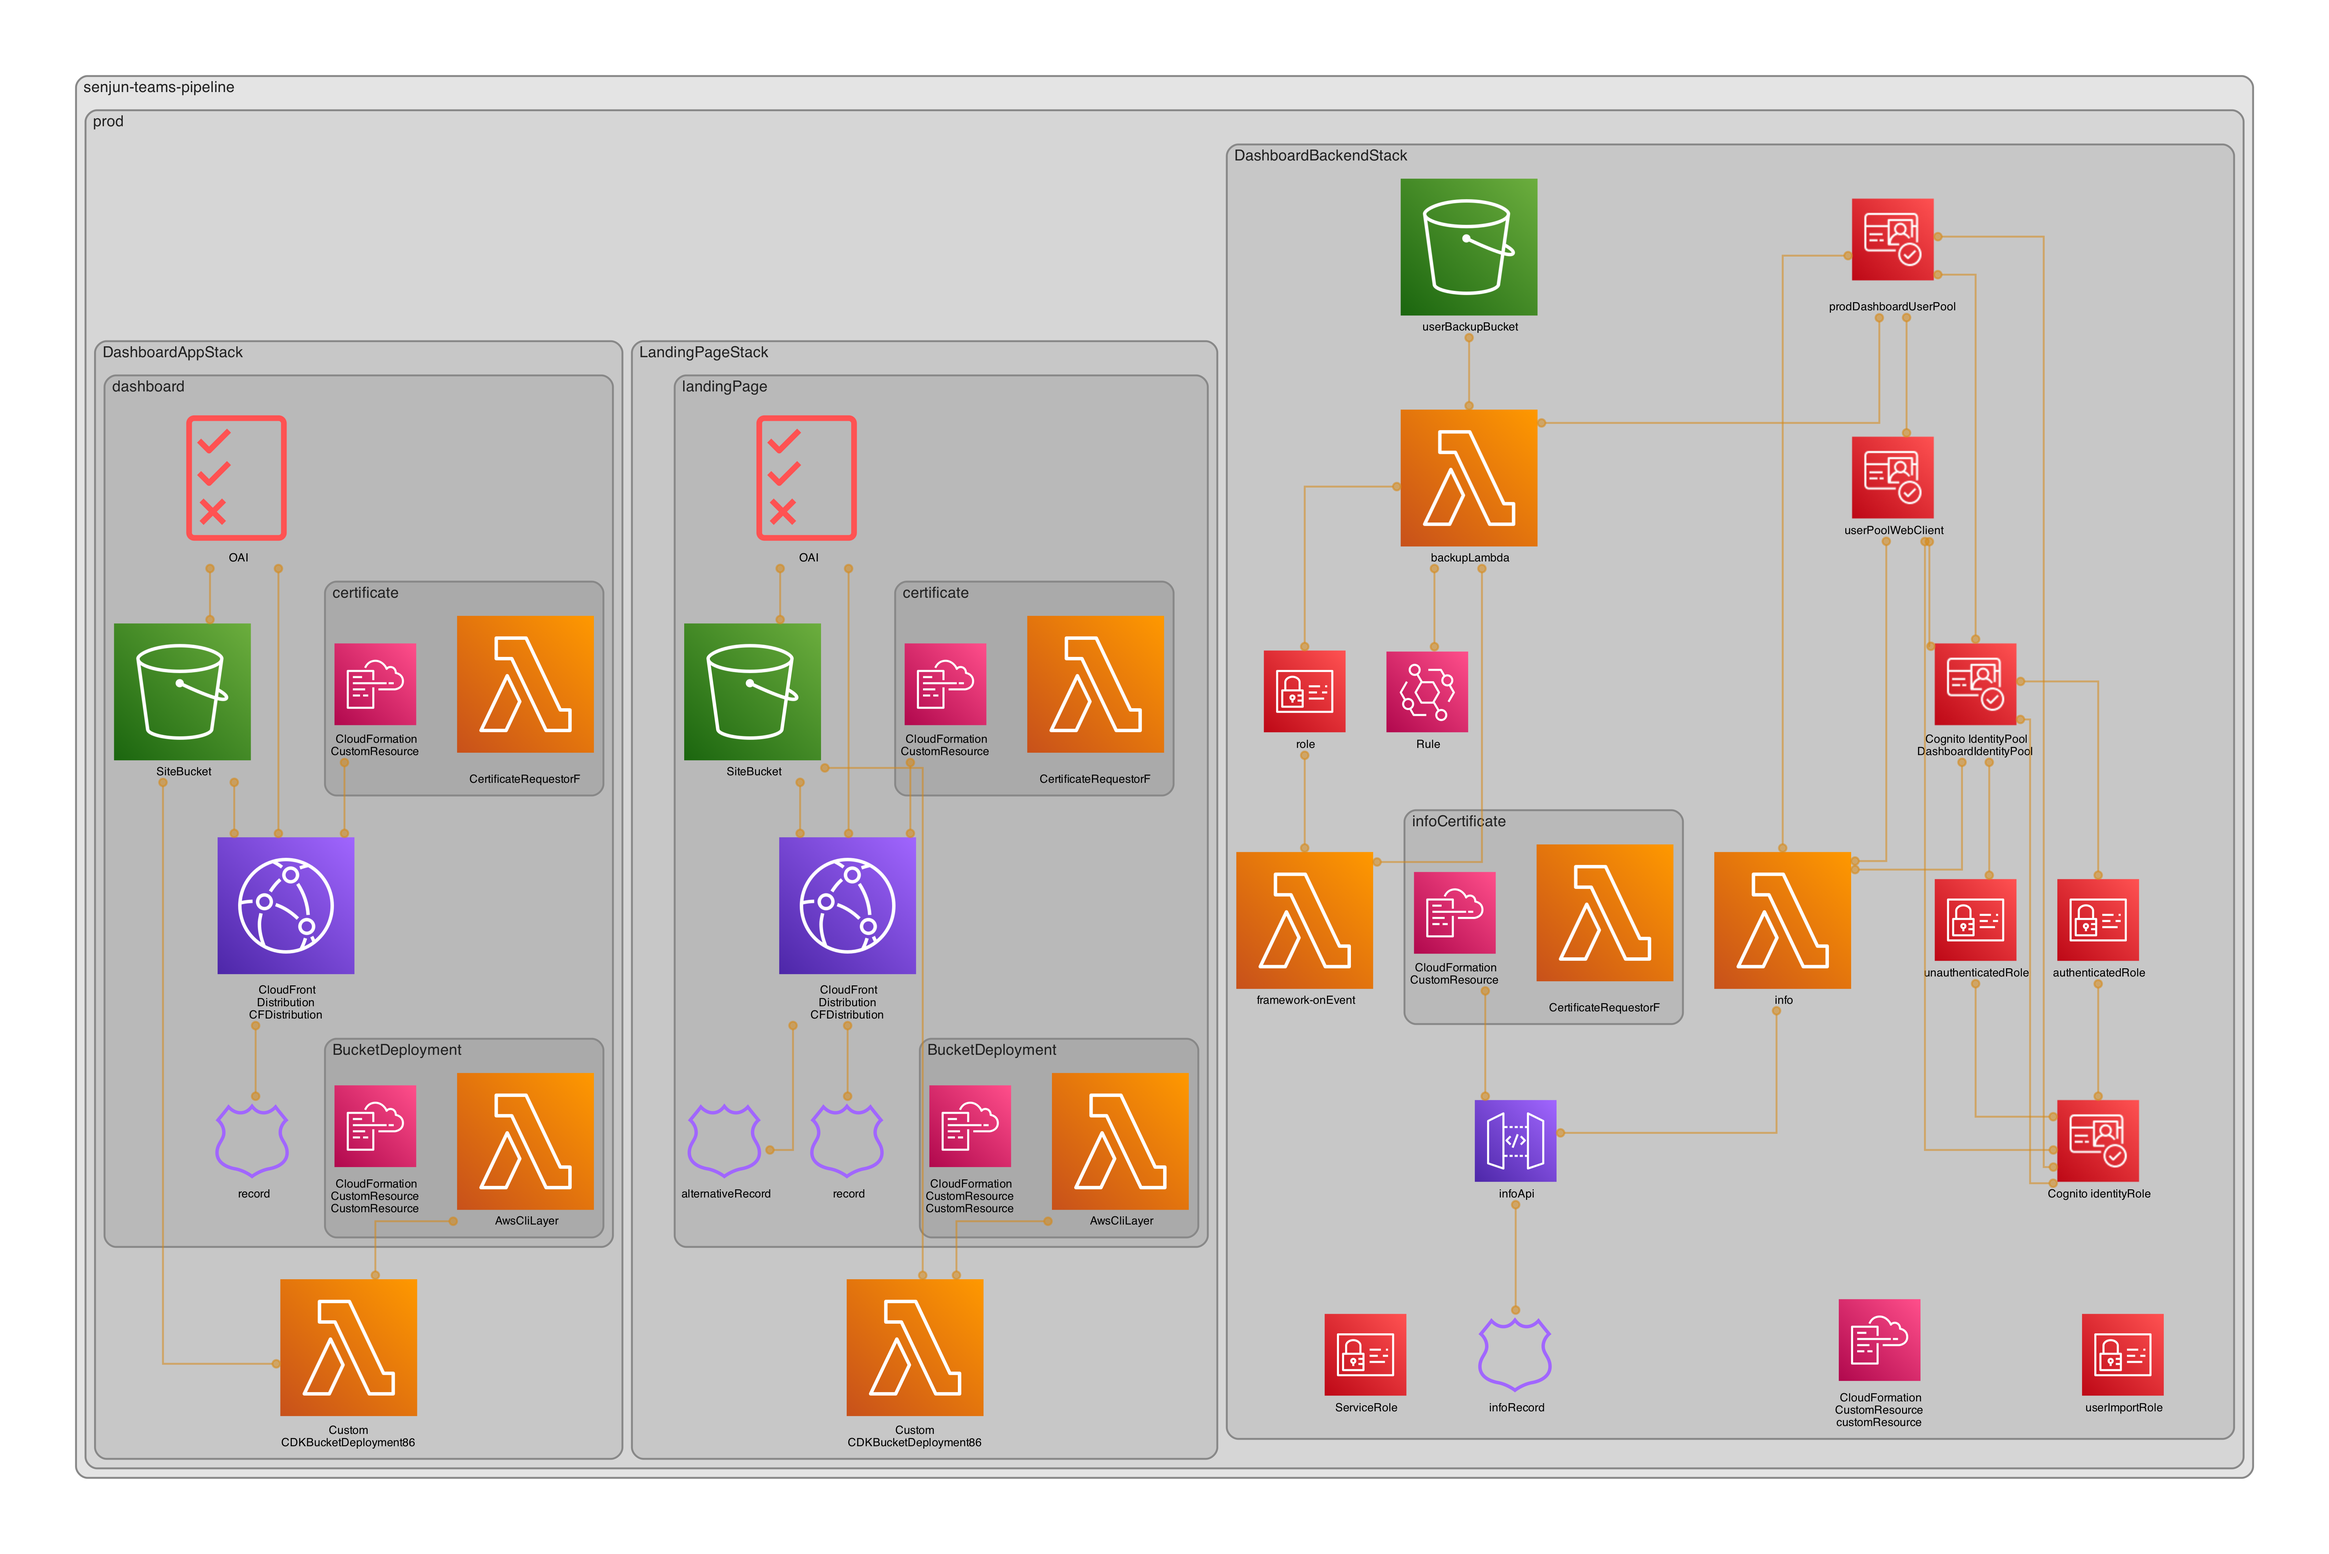
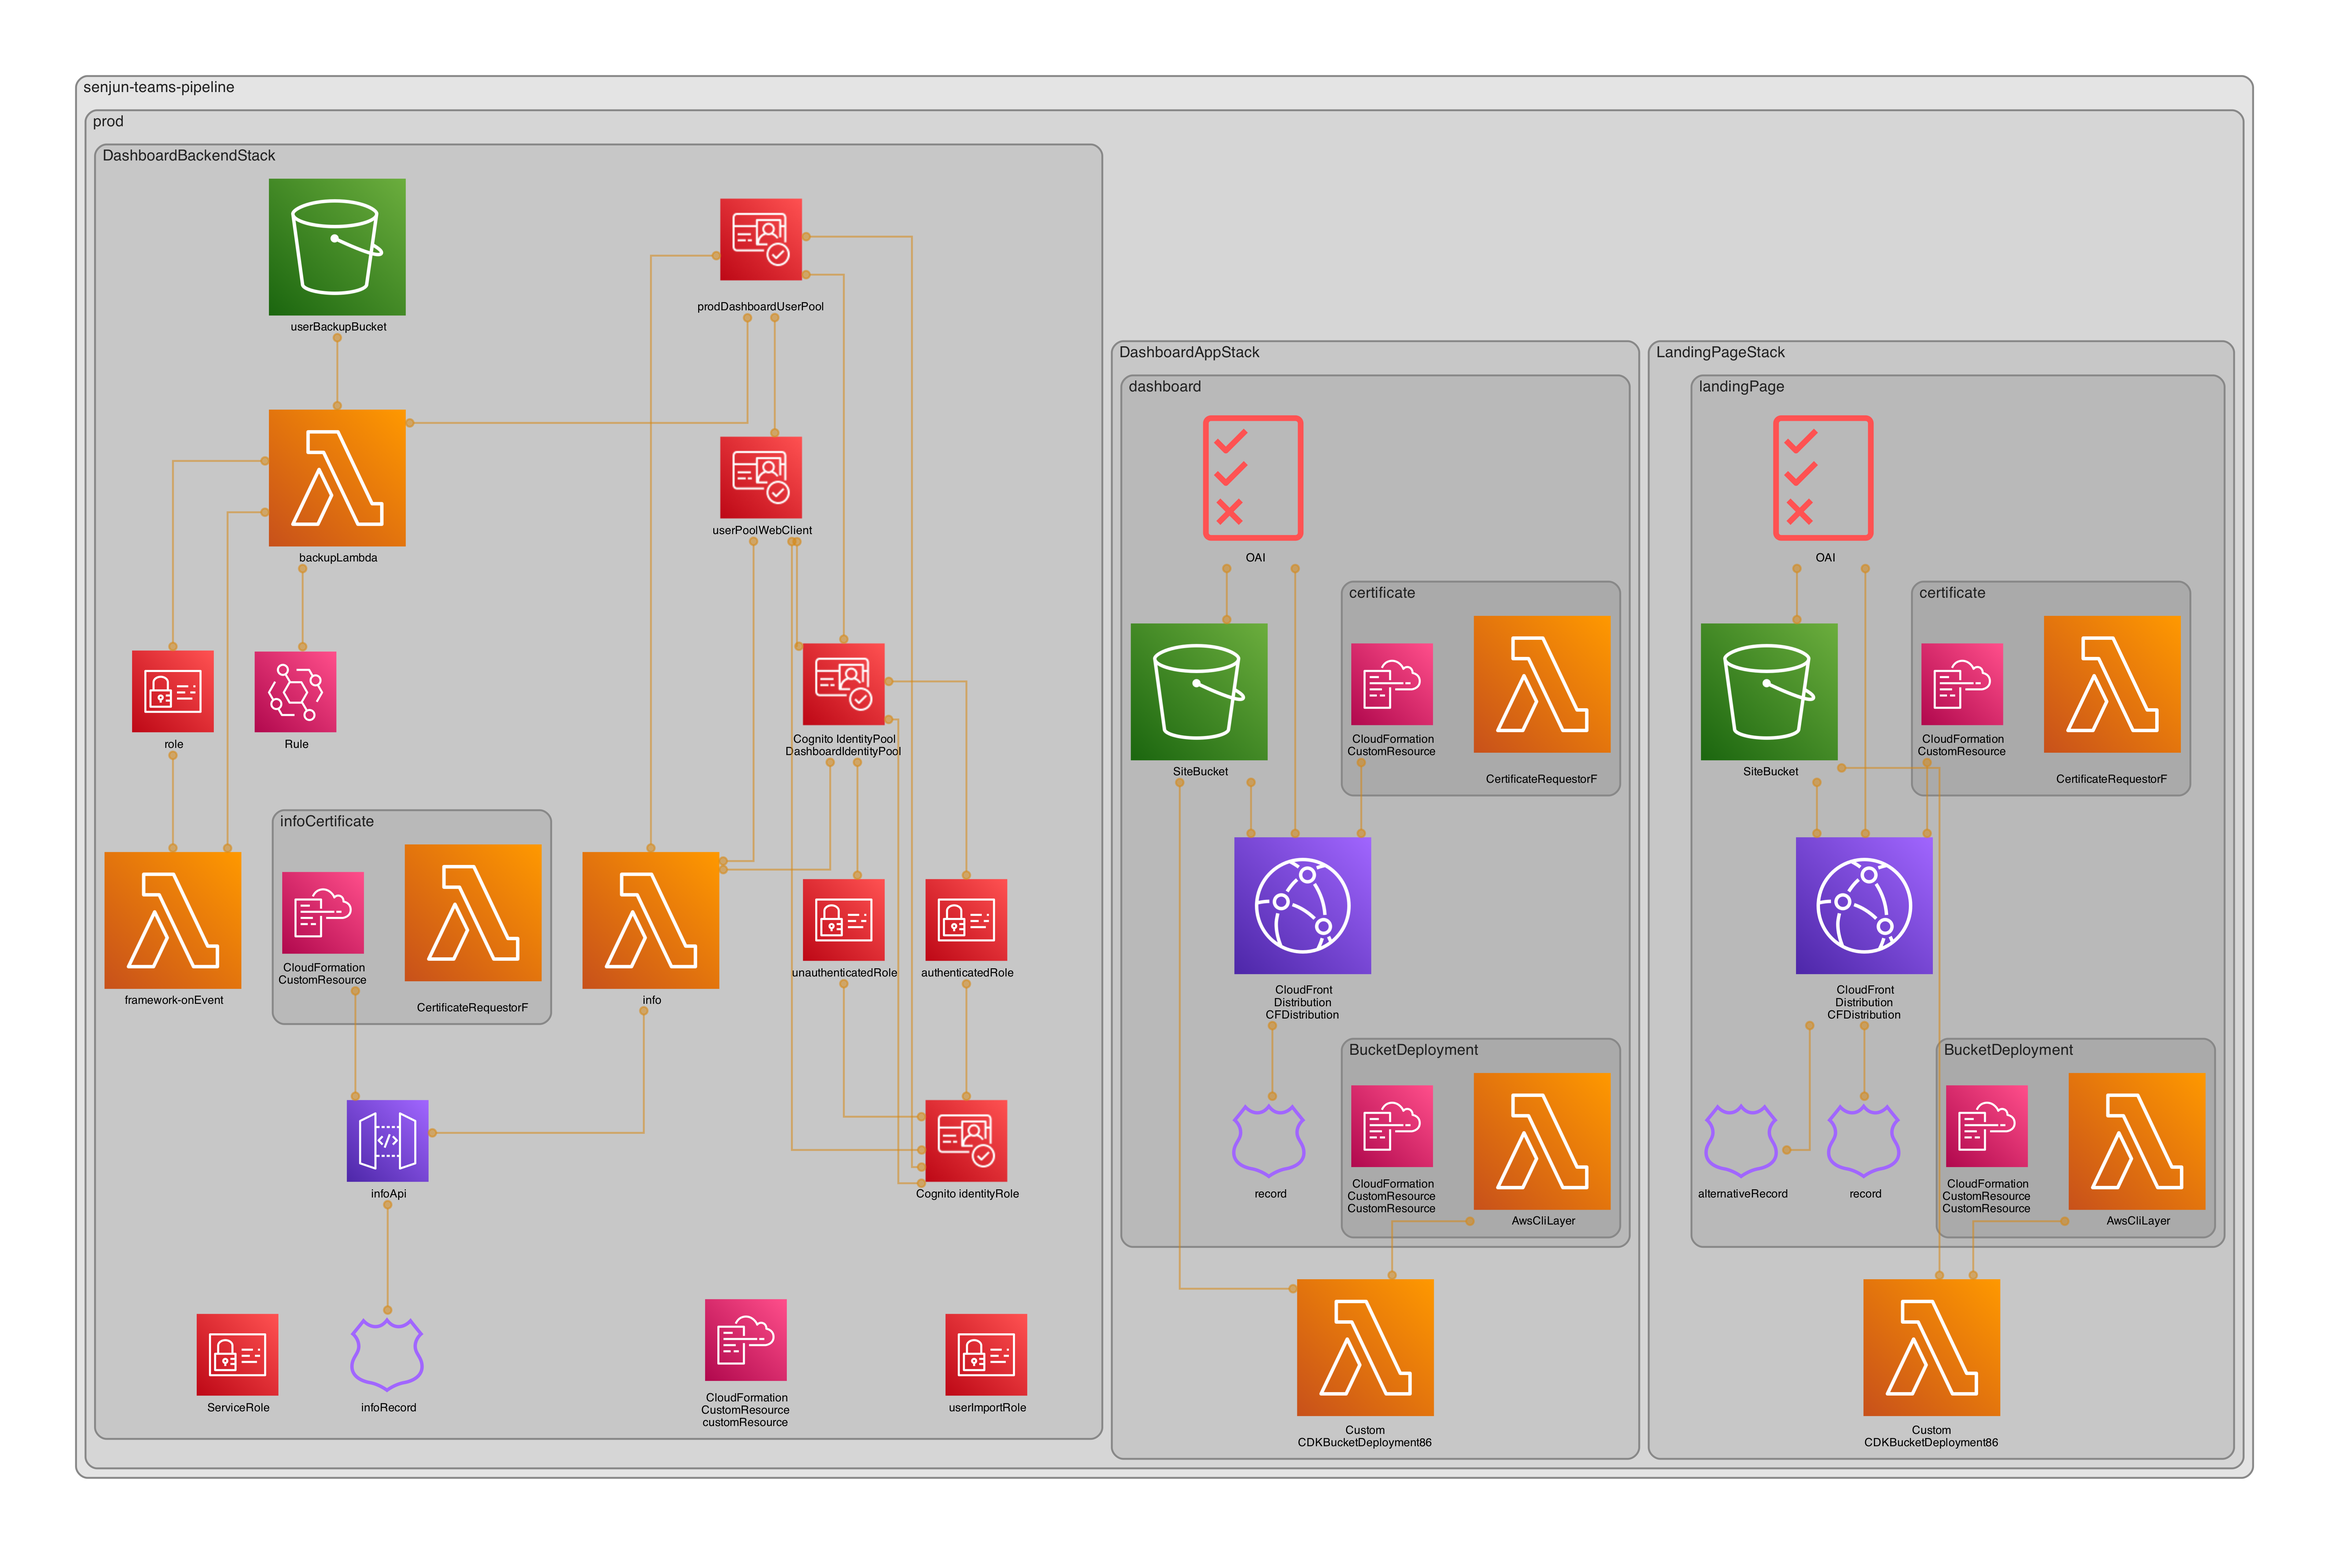
feat: #18 add cdk-dia..

Changed region(s): [[0.0311, 0.0931, 0.9653, 0.9313], [0.7785, 0.1242, 0.8408, 0.1863]]

diff --git a/.projenrc.ts b/.projenrc.ts
@@ -63,7 +63,7 @@ backend.setScript('cdk', 'cdk');
 backend.setScript('tsc', 'tsc');
 backend.setScript(
   'dia',
-  'mkdir -p ../landingpage/build && mkdir -p ../dashboard/build && yarn synth && yarn cdk-dia --stacks senjun-teams-pipeline/prod/DashboardBackendStack senjun-teams-pipeline/prod/DashboardAppStack senjun-teams-pipeline/prod/LandingPageStack && mv diagram.png diagrams/all.png',
+  'mkdir -p ../landingpage/build && mkdir -p ../dashboard/build && yarn synth && yarn cdk-dia && mv diagram.png diagrams/all.png',
 );
 
 backend.gitignore.addPatterns('.diagram.dot');
